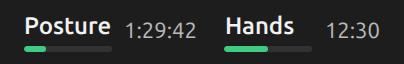
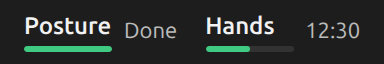
Treat standing time as a minimum

diff --git a/extension/logic.js b/extension/logic.js
@@ -1,11 +1,11 @@
 // Pure reminder logic. Durations are seconds; wall-clock values are milliseconds.
 export const SETTINGS = {
-    seatedDue: 7200, seatedLate: 7320, standRequired: 1200, standLate: 1320,
+    seatedDue: 7200, seatedLate: 7320, standRequired: 1200,
     inputDue: 3600, inputLate: 3660, inputResetIdle: 120,
     shortInputDue: 1200, shortInputLate: 1260, shortInputResetIdle: 20,
     inputActiveWindow: 10, postureActiveWindow: 60, postureResetIdle: 900, deskSitCm: 80, deskStandCm: 112,
     redWindow: 600, scoreDays: 14,
-    seatedSnooze: 900, standSnooze: 900, inputSnooze: 600, snoozeAway: 900, snoozePenalty: 2,
+    seatedSnooze: 900, inputSnooze: 600, snoozeAway: 900, snoozePenalty: 2,
 };
 
 export function preferencesOf(settings) {
@@ -18,7 +18,6 @@ export function configure(prefs) {
         seatedDue: prefs['seated-due'] * 60,
         seatedLate: (prefs['seated-due'] + prefs['seated-grace']) * 60,
         standRequired: prefs['stand-required'] * 60,
-        standLate: (prefs['stand-required'] + prefs['stand-grace']) * 60,
         inputDue: prefs['input-due'] * 60,
         inputLate: (prefs['input-due'] + prefs['input-grace']) * 60,
         shortInputDue: (prefs['short-input-due'] ?? 20) * 60,
@@ -26,7 +25,7 @@ export function configure(prefs) {
         shortInputResetIdle: prefs['short-input-break'] ?? 20,
         deskSitCm: prefs['desk-sit'], deskStandCm: prefs['desk-stand'],
         redWindow: (prefs['red-window'] ?? 10) * 60, scoreDays: prefs['score-days'],
-        seatedSnooze: (prefs['seated-snooze'] ?? 15) * 60, standSnooze: (prefs['stand-snooze'] ?? 15) * 60,
+        seatedSnooze: (prefs['seated-snooze'] ?? 15) * 60,
         inputSnooze: (prefs['input-snooze'] ?? 10) * 60, snoozeAway: (prefs['snooze-away'] ?? 15) * 60,
         snoozePenalty: prefs['snooze-penalty'] ?? 2,
     });
@@ -79,12 +78,12 @@ const penalties = (elapsed, window) => elapsed >= window ? 2 : elapsed >= window
 const nextPenalty = (elapsed, window) => (elapsed < window / 2 ? window / 2 : window) - elapsed;
 
 // Each reminder has its own scoring round; short hand breaks are never snoozable.
-const REMINDERS = ['seated', 'stand', 'input', 'shortInput'];
-const SNOOZABLE = ['seated', 'stand', 'input'];
+const REMINDERS = ['seated', 'input', 'shortInput'];
+const SNOOZABLE = ['seated', 'input'];
 
-const VALUE = {seated: 'seated', stand: 'standingRun', input: 'input', shortInput: 'shortInput'};
-const DUE = {seated: 'seatedDue', stand: 'standRequired', input: 'inputDue', shortInput: 'shortInputDue'};
-const LATE = {seated: 'seatedLate', stand: 'standLate', input: 'inputLate', shortInput: 'shortInputLate'};
+const VALUE = {seated: 'seated', input: 'input', shortInput: 'shortInput'};
+const DUE = {seated: 'seatedDue', input: 'inputDue', shortInput: 'shortInputDue'};
+const LATE = {seated: 'seatedLate', input: 'inputLate', shortInput: 'shortInputLate'};
 const BLINK = {orange: 'slow', red: 'fast'};
 const GRAY = Object.freeze({color: 'gray', blink: null, fraction: 0, seconds: null});
 
@@ -176,7 +175,7 @@ export class WellnessModel {
     _due(name, cfg) {
         const due = this[VALUE[name]] >= cfg[DUE[name]];
         if (name === 'seated') return due && !['standing', 'away'].includes(this.lastPosition);
-        return name === 'stand' ? due && this.standComplete : due;
+        return due;
     }
 
     // Due reminders not snoozed since their last break.
@@ -216,16 +215,11 @@ export class WellnessModel {
         return {snoozed: 'orange', over: 'red'}[this._snoozeState(name)] ?? this._roundColor(name, cfg);
     }
 
-    _postureReminder() {
-        return this.lastPosition === 'sitting' ? 'seated' : 'stand';
-    }
-
     resetPosture() {
         this.seated = this.standingRun = 0;
         this.standComplete = false;
-        this._misses.seated = this._misses.stand = 0;
+        this._misses.seated = 0;
         delete this.snoozes.seated;
-        delete this.snoozes.stand;
     }
 
     update({dt, localActive, deskReady, position, idleSeconds, wallMs, inputAvailable, awayAllowed = false}, cfg = SETTINGS) {
@@ -255,11 +249,8 @@ export class WellnessModel {
         if (position !== 'away' && (longIdle || returnedAfterBreak)) this.resetPosture();
         if (!deskReady || (position !== 'away' && longIdle)) return;
         if (position === 'sitting') {
-            if (this.standComplete && this._roundColor('stand', cfg) === 'orange') this.heeded++;
             this.standingRun = 0;
             this.standComplete = false;
-            this._misses.stand = 0;
-            delete this.snoozes.stand;
             if (localActive && idleSeconds < cfg.postureActiveWindow) {
                 this.seated += dt;
                 this.todaySitting += dt;
@@ -269,7 +260,7 @@ export class WellnessModel {
         }
         // An explicitly marked walk can continue while the screen is locked.
         if (!localActive && !(awayAllowed && position === 'away')) return;
-        if (!this.standComplete || idleSeconds < cfg.postureActiveWindow) this.standingRun += dt;
+        this.standingRun += dt;
         if (!this.standComplete && this.standingRun >= cfg.standRequired) {
             if (this._roundColor('seated', cfg) !== 'red') this.heeded++;
             this.standComplete = true;
@@ -277,15 +268,13 @@ export class WellnessModel {
             this._misses.seated = 0;
             delete this.snoozes.seated;
         }
-        if (localActive && idleSeconds < cfg.postureActiveWindow) {
-            this._advance('stand', dt, cfg);
-        }
         if (position === 'away') this.todayAway += dt;
         else if (idleSeconds < cfg.postureActiveWindow) this.todayStanding += dt;
     }
 
     deskColor(available, cfg = SETTINGS) {
-        return available ? this._color(this._postureReminder(), cfg) : 'gray';
+        if (!available || this.lastPosition === 'unknown') return 'gray';
+        return this.lastPosition === 'sitting' ? this._color('seated', cfg) : 'green';
     }
 
     inputColor(available, idleSeconds, cfg = SETTINGS, name = 'input') {
@@ -312,8 +301,11 @@ export class WellnessModel {
             const blink = active && this._snoozeState(name) !== 'snoozed' ? BLINK[color] ?? null : null;
             return {color, blink, fraction: color === 'green' ? Math.min(1, value / due) : 1, seconds};
         };
-        const posture = !desk || this.lastPosition === 'unknown' ? GRAY
-            : gauge(this._postureReminder(), this.deskColor(true, cfg), idleSeconds < cfg.postureActiveWindow);
+        const deskColor = this.deskColor(desk, cfg);
+        const posture = deskColor === 'gray' ? GRAY
+            : this.lastPosition === 'sitting' ? gauge('seated', deskColor, idleSeconds < cfg.postureActiveWindow)
+                : {color: deskColor, blink: null, fraction: this.standComplete ? 1 : this.standingRun / cfg.standRequired,
+                    seconds: this.standComplete ? null : cfg.standRequired - this.standingRun};
         if (!input) return {posture, hands: GRAY, shortHands: GRAY};
         const handGauge = name => handsIdle < cfg.inputActiveWindow
             ? gauge(name, this.inputColor(true, handsIdle, cfg, name), true)
@@ -325,9 +317,8 @@ export class WellnessModel {
     // Reminders whose round is red (a run-out snooze included), and whether the user is active for each.
     redReminders({active, input, idleSeconds, handsIdle}, cfg = SETTINGS) {
         const reminders = [];
-        const posture = this._postureReminder();
-        if (this.lastPosition !== 'unknown' && this._color(posture, cfg) === 'red')
-            reminders.push({name: posture, active: active && idleSeconds < cfg.postureActiveWindow});
+        if (this.lastPosition === 'sitting' && this._color('seated', cfg) === 'red')
+            reminders.push({name: 'seated', active: active && idleSeconds < cfg.postureActiveWindow});
         if (this._color('input', cfg) === 'red')
             reminders.push({name: 'input', active: active && input && handsIdle < cfg.inputActiveWindow});
         if (this._color('shortInput', cfg) === 'red')

diff --git a/extension/extension.js b/extension/extension.js
@@ -270,7 +270,7 @@ export default class WorkHabbitsExtension extends Extension {
             if (gauge.blink !== item.gauge?.blink) item.blinkStarted = now;
             item.gauge = gauge;
             item.icon.visible = icons;
-            item.time.text = gauge.seconds === null ? '—' : formatTimer(gauge.seconds);
+            item.time.text = gauge.seconds === null ? (gauge.color === 'gray' ? '—' : 'Done') : formatTimer(gauge.seconds);
         }
         const blinking = Object.values(gauges).some(gauge => gauge.blink);
         if (blinking && !this._blinkId) {
@@ -626,15 +626,18 @@ export default class WorkHabbitsExtension extends Extension {
         const posture = this._postureCard;
         const elapsed = resting ? model.standingRun : model.seated;
         const due = resting ? SETTINGS.standRequired : SETTINGS.seatedDue;
-        const late = resting ? SETTINGS.standLate : SETTINGS.seatedLate;
+        const meterEnd = resting ? due : SETTINGS.seatedLate;
+        const target = `${Math.floor(due / 60)}m`;
+        const minimumMet = resting && model.standComplete;
         posture.big.text = `${Math.floor(elapsed / 60)}m`;
         posture.big.set_style(`color: ${COLORS[deskColor]};`);
-        posture.of.text = `of ${Math.floor(due / 60)}m ${resting ? breakName : 'seated'}`;
-        posture.meter.setLevel({fraction: elapsed / late, color: COLORS[deskColor], tick: due / late});
-        posture.hint.text = reason || tooLate(gauges.posture, resting ? 'stand' : 'seated') || (resting
-            ? model.standComplete ? 'Break complete; return to sitting' : `${formatTimer(due - elapsed)} to go`
-            : model.seated >= due ? `Time for ${mode === 'disabled' ? 'a movement break' : 'a stand'}`
-                : `Next break in ${formatTimer(due - elapsed)}`);
+        posture.of.text = resting ? (minimumMet ? breakName : `minimum ${target} ${breakName}`) : `of ${target} seated`;
+        posture.meter.setLevel({fraction: minimumMet ? 1 : elapsed / meterEnd,
+            color: COLORS[deskColor], tick: resting ? null : due / meterEnd});
+        posture.hint.text = reason || (resting
+            ? minimumMet ? 'Minimum met' : `${formatTimer(due - elapsed)} to reach minimum`
+            : tooLate(gauges.posture, 'seated') || (model.seated >= due ? `Time for ${mode === 'disabled' ? 'a movement break' : 'a stand'}`
+                : `Next break in ${formatTimer(due - elapsed)}`));
         if (!reason && !resting && idleSeconds >= SETTINGS.postureActiveWindow)
             posture.hint.text = 'Paused; no recent activity';
         this._height.text = mode === 'bluetooth' ? `Desk: ${this._deskReady ? `${this._desk.height_cm} cm` : 'unavailable'}`
@@ -683,7 +686,7 @@ export default class WorkHabbitsExtension extends Extension {
             : this._store.warnings.length ? 'Unreadable history preserved; see logs' : '');
         status(this._soundItem, this._soundError);
         this._snoozeButton.visible = active && model.snoozable().length > 0;
-        const names = {seated: 'Stand', stand: 'Sit', input: 'Long hands'};
+        const names = {seated: 'Stand', input: 'Long hands'};
         const states = model.snoozeStates();
         this._snoozeHint.text = Object.entries(states).map(([name, state]) => {
             const time = formatTimer(model.snoozeSeconds(name));

diff --git a/docs/previews/previews.html b/docs/previews/previews.html
@@ -60,7 +60,7 @@
 </style>
 </head>
 <body>
-<section id="panel-green"><div class="panel"><div class="strip"><div class="gauge"><div class="identity"><span class="name">Posture</span><div class="bar"><i style="width: 25%; background: var(--green)"></i></div></div><span class="time num muted">1:29:42</span></div><div class="gauge"><div class="identity"><span class="name">Hands</span><div class="bar"><i style="width: 50%; background: var(--green)"></i></div></div><span class="time num muted">12:30</span></div></div></div></section>
+<section id="panel-green"><div class="panel"><div class="strip"><div class="gauge"><div class="identity"><span class="name">Posture</span><div class="bar"><i style="width: 100%; background: var(--green)"></i></div></div><span class="time num muted">Done</span></div><div class="gauge"><div class="identity"><span class="name">Hands</span><div class="bar"><i style="width: 50%; background: var(--green)"></i></div></div><span class="time num muted">12:30</span></div></div></div></section>
 <section id="panel-orange"><div class="panel"><div class="strip"><div class="gauge"><div class="identity"><span class="name">Posture</span><div class="bar"><i style="width: 100%; background: var(--orange)"></i></div></div><span class="time num muted">1:12</span></div><div class="gauge"><div class="identity"><span class="name">Hands</span><div class="bar"><i style="width: 69%; background: var(--green)"></i></div></div><span class="time num muted">7:40</span></div></div></div></section>
 <section id="panel-red"><div class="panel"><div class="strip"><div class="gauge"><div class="identity"><span class="name">Posture</span><div class="bar"><i style="width: 100%; background: var(--red)"></i></div></div><span class="time num muted">3:48</span></div><div class="gauge"><div class="identity"><span class="name">Hands</span><div class="bar"><i style="width: 72%; background: var(--green)"></i></div></div><span class="time num muted">6:55</span></div></div></div></section>
 <section id="panel-snoozed"><div class="panel"><div class="strip"><div class="gauge"><div class="identity"><span class="name">Posture</span><div class="bar"><i style="width: 100%; background: var(--orange)"></i></div></div><span class="time num muted">14:12</span></div><div class="gauge"><div class="identity"><span class="name">Hands</span><div class="bar"><i style="width: 40%; background: var(--green)"></i></div></div><span class="time num muted">15:00</span></div></div></div></section>

diff --git a/extension/prefs.js b/extension/prefs.js
@@ -73,7 +73,7 @@ export default class WorkHabbitsPreferences extends ExtensionPreferences {
             [desk, [['desk-sit', 'Sitting height (cm)'], ['desk-stand', 'Standing height (cm)']]],
             [new Adw.PreferencesGroup({title: 'Posture reminders (minutes)'}), [
                 ['seated-due', 'Stand or take a walk after'], ['seated-grace', 'Orange warning before red (stand up)'],
-                ['stand-required', 'Standing / movement break length'], ['stand-grace', 'Orange warning before red (sit down)']]],
+                ['stand-required', 'Minimum standing / movement break duration']]],
             [new Adw.PreferencesGroup({title: 'Short hand breaks', description:
                 'Rest your hands without typing or clicking. Short breaks cannot be snoozed.'}), [
                 ['short-input-due', 'Remind after active input (minutes)'],
@@ -84,7 +84,7 @@ export default class WorkHabbitsPreferences extends ExtensionPreferences {
                 ['input-due', 'Remind after active input (minutes)'],
                 ['input-grace', 'Orange warning before red (minutes)']]],
             [new Adw.PreferencesGroup({title: 'Snooze — leaving soon'}), [
-                ['seated-snooze', 'Snooze standing reminders (minutes)'], ['stand-snooze', 'Snooze sitting reminders (minutes)'],
+                ['seated-snooze', 'Snooze standing reminders (minutes)'],
                 ['input-snooze', 'Snooze long hand reminders (minutes)'], ['snooze-away', 'Idle minutes to forgive snoozes'],
                 ['snooze-penalty', 'Continued work penalty multiplier']]],
             [new Adw.PreferencesGroup({title: 'Habit score', description:

diff --git a/README.md b/README.md
@@ -14,7 +14,7 @@ Posture and Hands each show a label, a bar that fills toward the next change, an
 
 | Plenty of time | Change due | Too late |
 | --- | --- | --- |
-| ![Top bar with green Posture and Hands bars](docs/previews/panel-green.png) | ![Full orange Posture bar that blinks slowly, 1 minute 12 seconds before red](docs/previews/panel-orange.png) | ![Full red Posture bar that blinks fast, 3 minutes 48 seconds until the next penalty](docs/previews/panel-red.png) |
+| ![Top bar with a full green Posture bar labeled Done and a green Hands countdown](docs/previews/panel-green.png) | ![Full orange Posture bar that blinks slowly, 1 minute 12 seconds before red](docs/previews/panel-orange.png) | ![Full red Posture bar that blinks fast, 3 minutes 48 seconds until the next penalty](docs/previews/panel-red.png) |
 
 | Snoozed | Hand input unavailable | Optional icons |
 | --- | --- | --- |
@@ -137,10 +137,10 @@ The user-level uninstaller leaves this optional system rule in place. Remove it 
 Configurable defaults:
 
 - After **120 active seated minutes**, remind you to stand or take a movement break; red after 2 more active minutes.
-- A **20-minute stand or marked movement break** resets the seated timer. Remind you to return to sitting, with a 2-minute orange warning before red.
+- You can start a stand or marked movement break at any time. Reaching the **20-minute minimum** resets the seated timer. If you sit sooner, the previous seated timer resumes. Once you reach the minimum, the top bar shows **Done** and you can keep standing or walking as long as you like.
 - After **20 active input minutes**, remind you to take a **20-second short hand break**; red after one more active minute. Short breaks cannot be snoozed.
 - After **60 active input minutes**, show the long hand-break reminder; red after one more active minute. **Two continuous minutes without typing or clicking reset both hand timers**, even before either reminder is due. A 20-second rest still completes only the short break.
-- Red lasts at most **10 active minutes**: a penalty halfway, another at the end, then the timer for your current posture or your hands starts a new round. An ignored reminder never charges more than two misses per round.
+- Red lasts at most **10 active minutes**: a penalty halfway, another at the end, then the seated or hand timer starts a new round. An ignored reminder never charges more than two misses per round.
 
 The top bar shows Posture and a single Hands item for the next short or long hand break, each with a bar that fills toward the next change and the time until it. Due and overdue hand breaks take priority over upcoming or snoozed ones. The menu keeps separate short and long hand-break details. Bars, and the optional icons, are green before a deadline, blink orange slowly when due, blink red fast when too late, and are gray when unavailable. In orange the time counts down to red; in red it counts down to the next penalty.
 
@@ -152,9 +152,9 @@ Both hand timers run while a key press or click happened within the last 10 seco
 
 Locking, switching users/TTYs, and remote sessions stop input collection. A Bluetooth disconnect pauses sensor-based posture timers. Suspend and process downtime never count as inferred activity. Daily totals and reminder progress persist across extension restarts and start anew each local calendar day.
 
-Tracking can be paused in Settings; this pauses collection, reminders and the Bluetooth helper while keeping history. The menu shows a **Snooze — leaving soon** button while a posture or long hand reminder is orange or red, once per round. It snoozes standing/sitting reminders for 15 minutes and long hand reminders for 10 minutes (configurable). Short hand reminders continue during a snooze. A snoozed bar stays steady orange, its sound stops, and penalties already charged in this round are taken back. If you are still working when the snooze runs out, a fresh red window starts in which both penalties count twice by default, so at most four misses. Taking the break clears the snooze. Locking, leaving the local session or prolonged idle time cancels the double penalty. Locked and idle time never advances a red window. Snoozes survive Shell restarts.
+Tracking can be paused in Settings; this pauses collection, reminders and the Bluetooth helper while keeping history. The menu shows a **Snooze — leaving soon** button while a posture or long hand reminder is orange or red, once per round. It snoozes the reminder to stand or take a walk for 15 minutes and long hand reminders for 10 minutes (configurable). Short hand reminders continue during a snooze. A snoozed bar stays steady orange, its sound stops, and penalties already charged in this round are taken back. If you are still working when the snooze runs out, a fresh red window starts in which both penalties count twice by default, so at most four misses. Taking the break clears the snooze. Locking, leaving the local session or prolonged idle time cancels the double penalty. Locked and idle time never advances a red window. Snoozes survive Shell restarts.
 
-The red-to-green habit score shows timely breaks divided by all scored reminders over the last 14 active days (configurable). Completing a posture break before red, returning to sitting before red, and completing either hand break after orange but before red earn points. Doing so in red before the first penalty earns nothing and costs nothing. A red window charges a miss halfway and another at its end, then starts a new round. Ordinary hand rests before a reminder earn no points. Inactive time adds no misses.
+The red-to-green habit score shows timely breaks divided by all scored reminders over the last 14 active days (configurable). Standing or walking for the minimum earns one point if you started before the seated reminder turned red, including before it was due. Completing either hand break while its reminder is orange earns one point. A break taken in red before the first penalty leaves the score unchanged. A red window charges a miss halfway and another at its end, then starts a new round. Ordinary hand rests before a reminder earn no points. Inactive time adds no misses.
 
 ## Bluetooth protocol and safety
 
